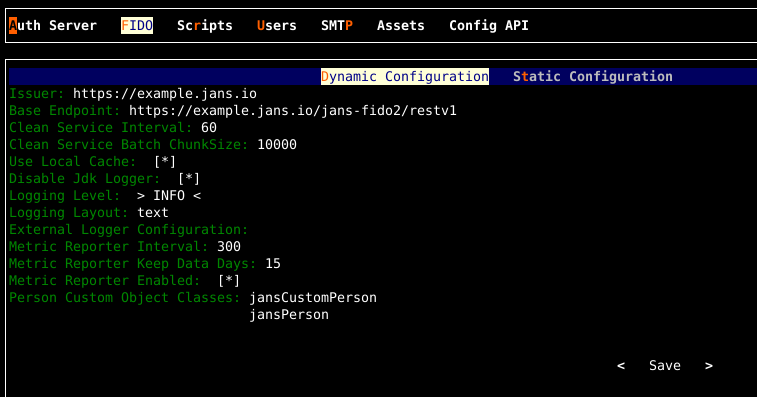
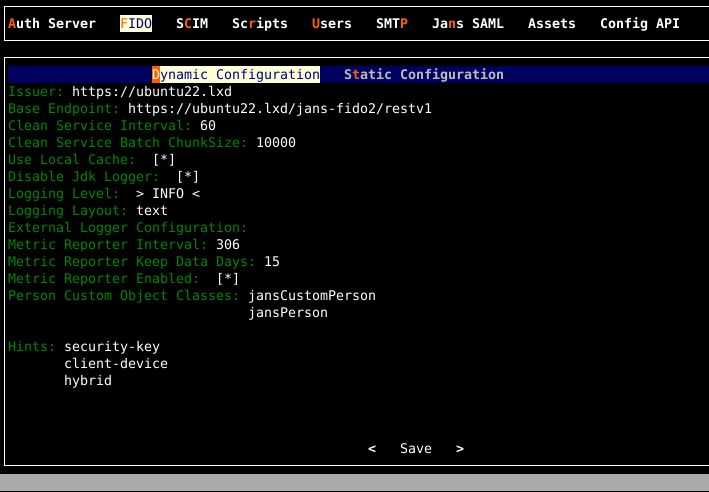
fix(jans-cli-tui): move fido2 hints to dynamic conf (#11861)
* fix(jans-cli-tui): move fido2 hints to dynamic conf

* docs(jans-cli-tui): fido2 config screens

---------

diff --git a/jans-cli-tui/cli_tui/plugins/020_fido/main.py b/jans-cli-tui/cli_tui/plugins/020_fido/main.py
@@ -2,7 +2,7 @@ import asyncio
 from collections import OrderedDict
 from functools import partial
 from typing import Any
-from prompt_toolkit.layout.containers import HSplit, DynamicContainer, VSplit, Window
+from prompt_toolkit.layout.containers import HSplit, DynamicContainer, VSplit, Window, HorizontalAlign
 from prompt_toolkit.layout.dimension import D
 from prompt_toolkit.widgets import Button, Label, Box, Dialog
 from prompt_toolkit.application import Application
@@ -94,6 +94,7 @@ class Plugin(DialogUtils):
 
     def create_widgets(self):
         self.schema = self.app.cli_object.get_schema_from_reference('Fido2', '#/components/schemas/AppConfiguration')
+        fido2_static_config = self.data.get('fido2Configuration', {})
 
         self.tabs['configuration'] = HSplit([
                                 self.app.getTitledText(_("Issuer"), name='issuer', value=self.data.get('issuer',''), jans_help=self.app.get_help_from_schema(self.schema, 'issuer'), style='class:outh-scope-text',widget_style=cli_style.black_bg_widget),
@@ -124,22 +125,25 @@ class Plugin(DialogUtils):
                                             value='\n'.join(self.data.get('personCustomObjectClassList', [])),
                                             height=3,
                                             jans_help=self.app.get_help_from_schema(self.schema, 'personCustomObjectClassList'),
-                                            style='class:outh-scope-text'
-                                            ,widget_style=cli_style.black_bg_widget
+                                            style='class:outh-scope-text',
+                                            widget_style=cli_style.black_bg_widget
                                             ),
-                                Window(height=1),
-                                VSplit([Window(),
-                                HSplit([Button(_("Save"), handler=self.save_config)]),
-                                Window()]),
-                                ],
-                                width=D()
-                                )
+                                            
+                                self.app.getTitledText(
+                                            _("Hints"),
+                                            name='hints',
+                                            value='\n'.join(fido2_static_config.get('hints', [])),
+                                            height=3,
+                                            jans_help=self.app.get_help_from_schema(self.schema, 'hints'),
+                                            jans_list_type=True,
+                                            style='class:outh-scope-text',
+                                            widget_style=cli_style.black_bg_widget
+                                            ),
+                                ])
 
 
         static_schema = self.app.cli_object.get_schema_from_reference('Fido2', '#/components/schemas/Fido2Configuration')
         static_schema = {}
-
-        fido2_static_config = self.data.get('fido2Configuration', {})
 
         requested_parties_title = _("Requested Parties")
         add_party_title =  _("Add Party")
@@ -186,16 +190,6 @@ class Plugin(DialogUtils):
                                             style='class:outh-scope-text'
                                             ,widget_style=cli_style.black_bg_widget
                                             ),
-                                
-                                self.app.getTitledText(
-                                            _("Hints"),
-                                            name='hints',
-                                            value='\n'.join(fido2_static_config.get('hints', [])),
-                                            height=3,
-                                            jans_help=self.app.get_help_from_schema(self.schema, 'hints'),
-                                            style='class:outh-scope-text'
-                                            ,widget_style=cli_style.black_bg_widget
-                                            ),
 
                     VSplit([
                             HSplit([Label(text=requested_parties_title, style='class:script-label', width=len(requested_parties_title)+1),]),
@@ -211,10 +205,6 @@ class Plugin(DialogUtils):
                             height=5, width=D(),
                             ),
 
-                    VSplit([Window(), 
-                    HSplit([Button(_("Save"), handler=self.save_config)]),
-                    
-                    Window()]),
                                 ],
                                 width=D()
                                 )
@@ -261,11 +251,12 @@ class Plugin(DialogUtils):
         """
 
         self.tabs = OrderedDict()
-        self.main_area = HSplit([Label("configuration")],width=D())
+        self.main_area = HSplit([Label("configuration")], width=D())
 
         self.main_container = HSplit([
                                         Box(self.nav_bar.nav_window, style='class:sub-navbar', height=1),
                                         DynamicContainer(lambda: self.main_area),
+                                        VSplit([Button(_("Save"), handler=self.save_config)], align=HorizontalAlign.CENTER),
                                         ],
                                     height=D(),
                                     style='class:outh_maincontainer'
@@ -296,7 +287,7 @@ class Plugin(DialogUtils):
 
         fido2_config['personCustomObjectClassList'] = fido2_config['personCustomObjectClassList'].splitlines()
         fido2_static['enabledFidoAlgorithms'] = fido2_static['enabledFidoAlgorithms'].splitlines()
-        fido2_static['hints'] = fido2_static['hints'].splitlines()
+        fido2_static['hints'] = fido2_config.pop('hints')
 
         fido2_static['rp'] = []
         for name, domains in self.requested_parties_container.data:
